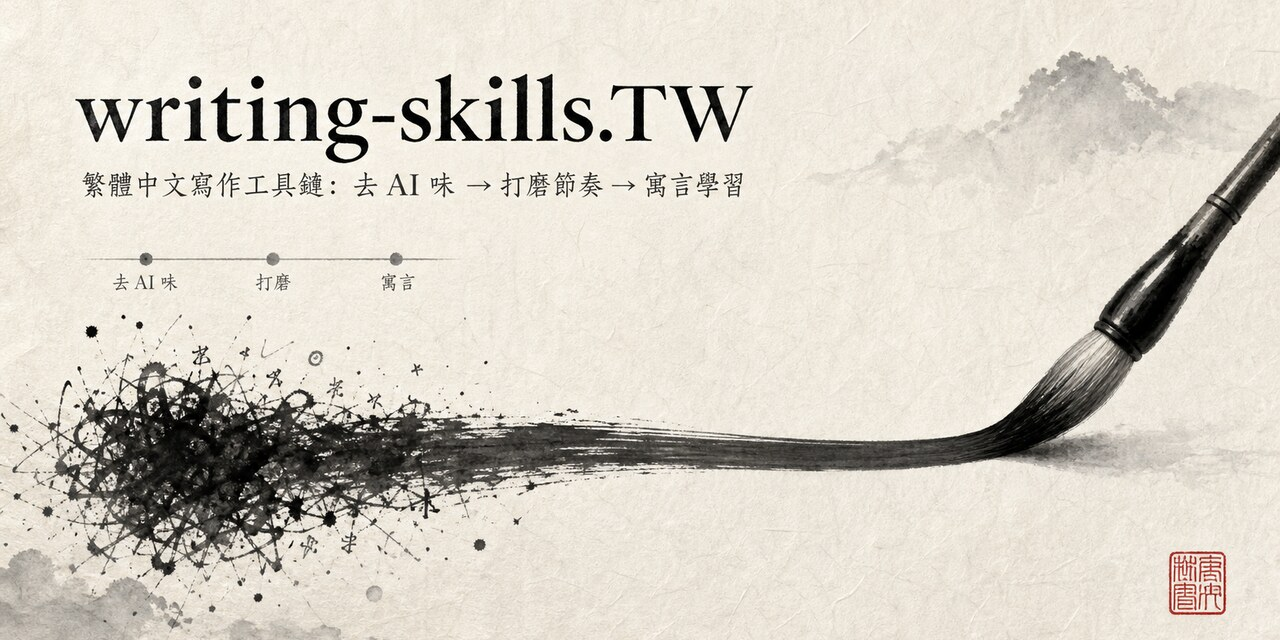
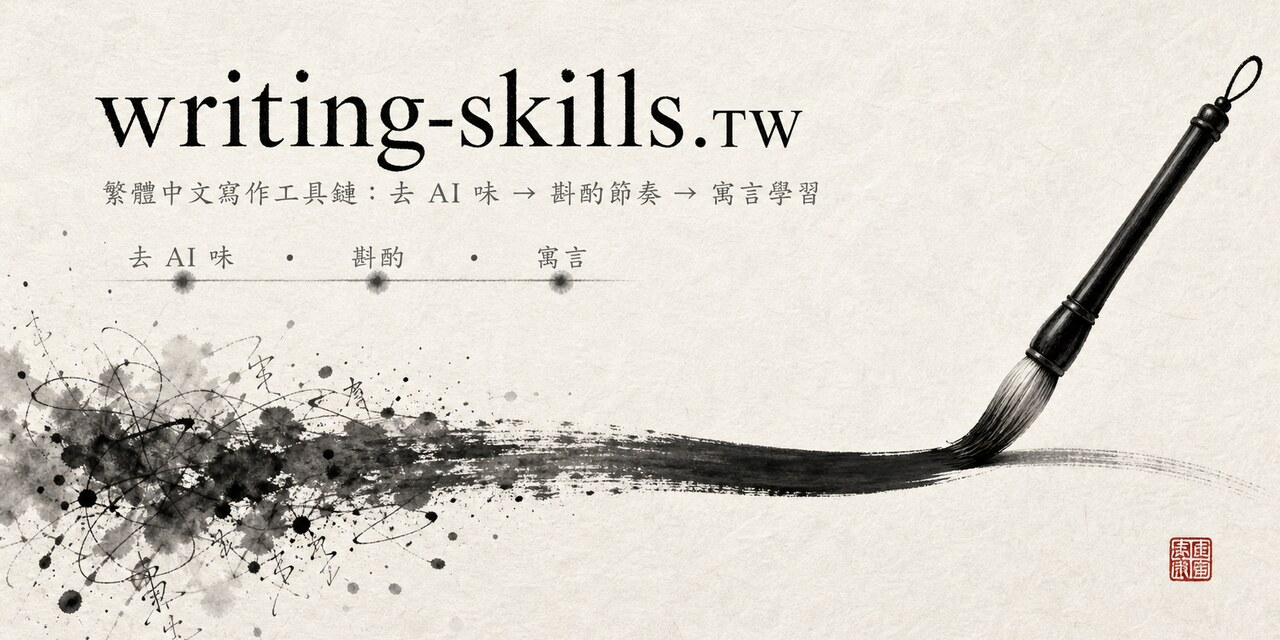
docs: update social preview wording (打磨→斟酌)

diff --git a/README.md b/README.md
@@ -1,6 +1,6 @@
 # writing-skills.TW
 
-![writing-skills.TW — 繁體中文寫作工具鏈：去 AI 味 → 打磨節奏 → 寓言學習](.assets/social-preview.jpg)
+![writing-skills.TW — 繁體中文寫作工具鏈：去 AI 味 → 斟酌節奏 → 寓言學習](.assets/social-preview.jpg)
 
 > 給 Claude Code 的繁體中文（台灣）寫作工具鏈：**去 AI 味 → 打磨節奏 → 用寓言學概念**。
 
